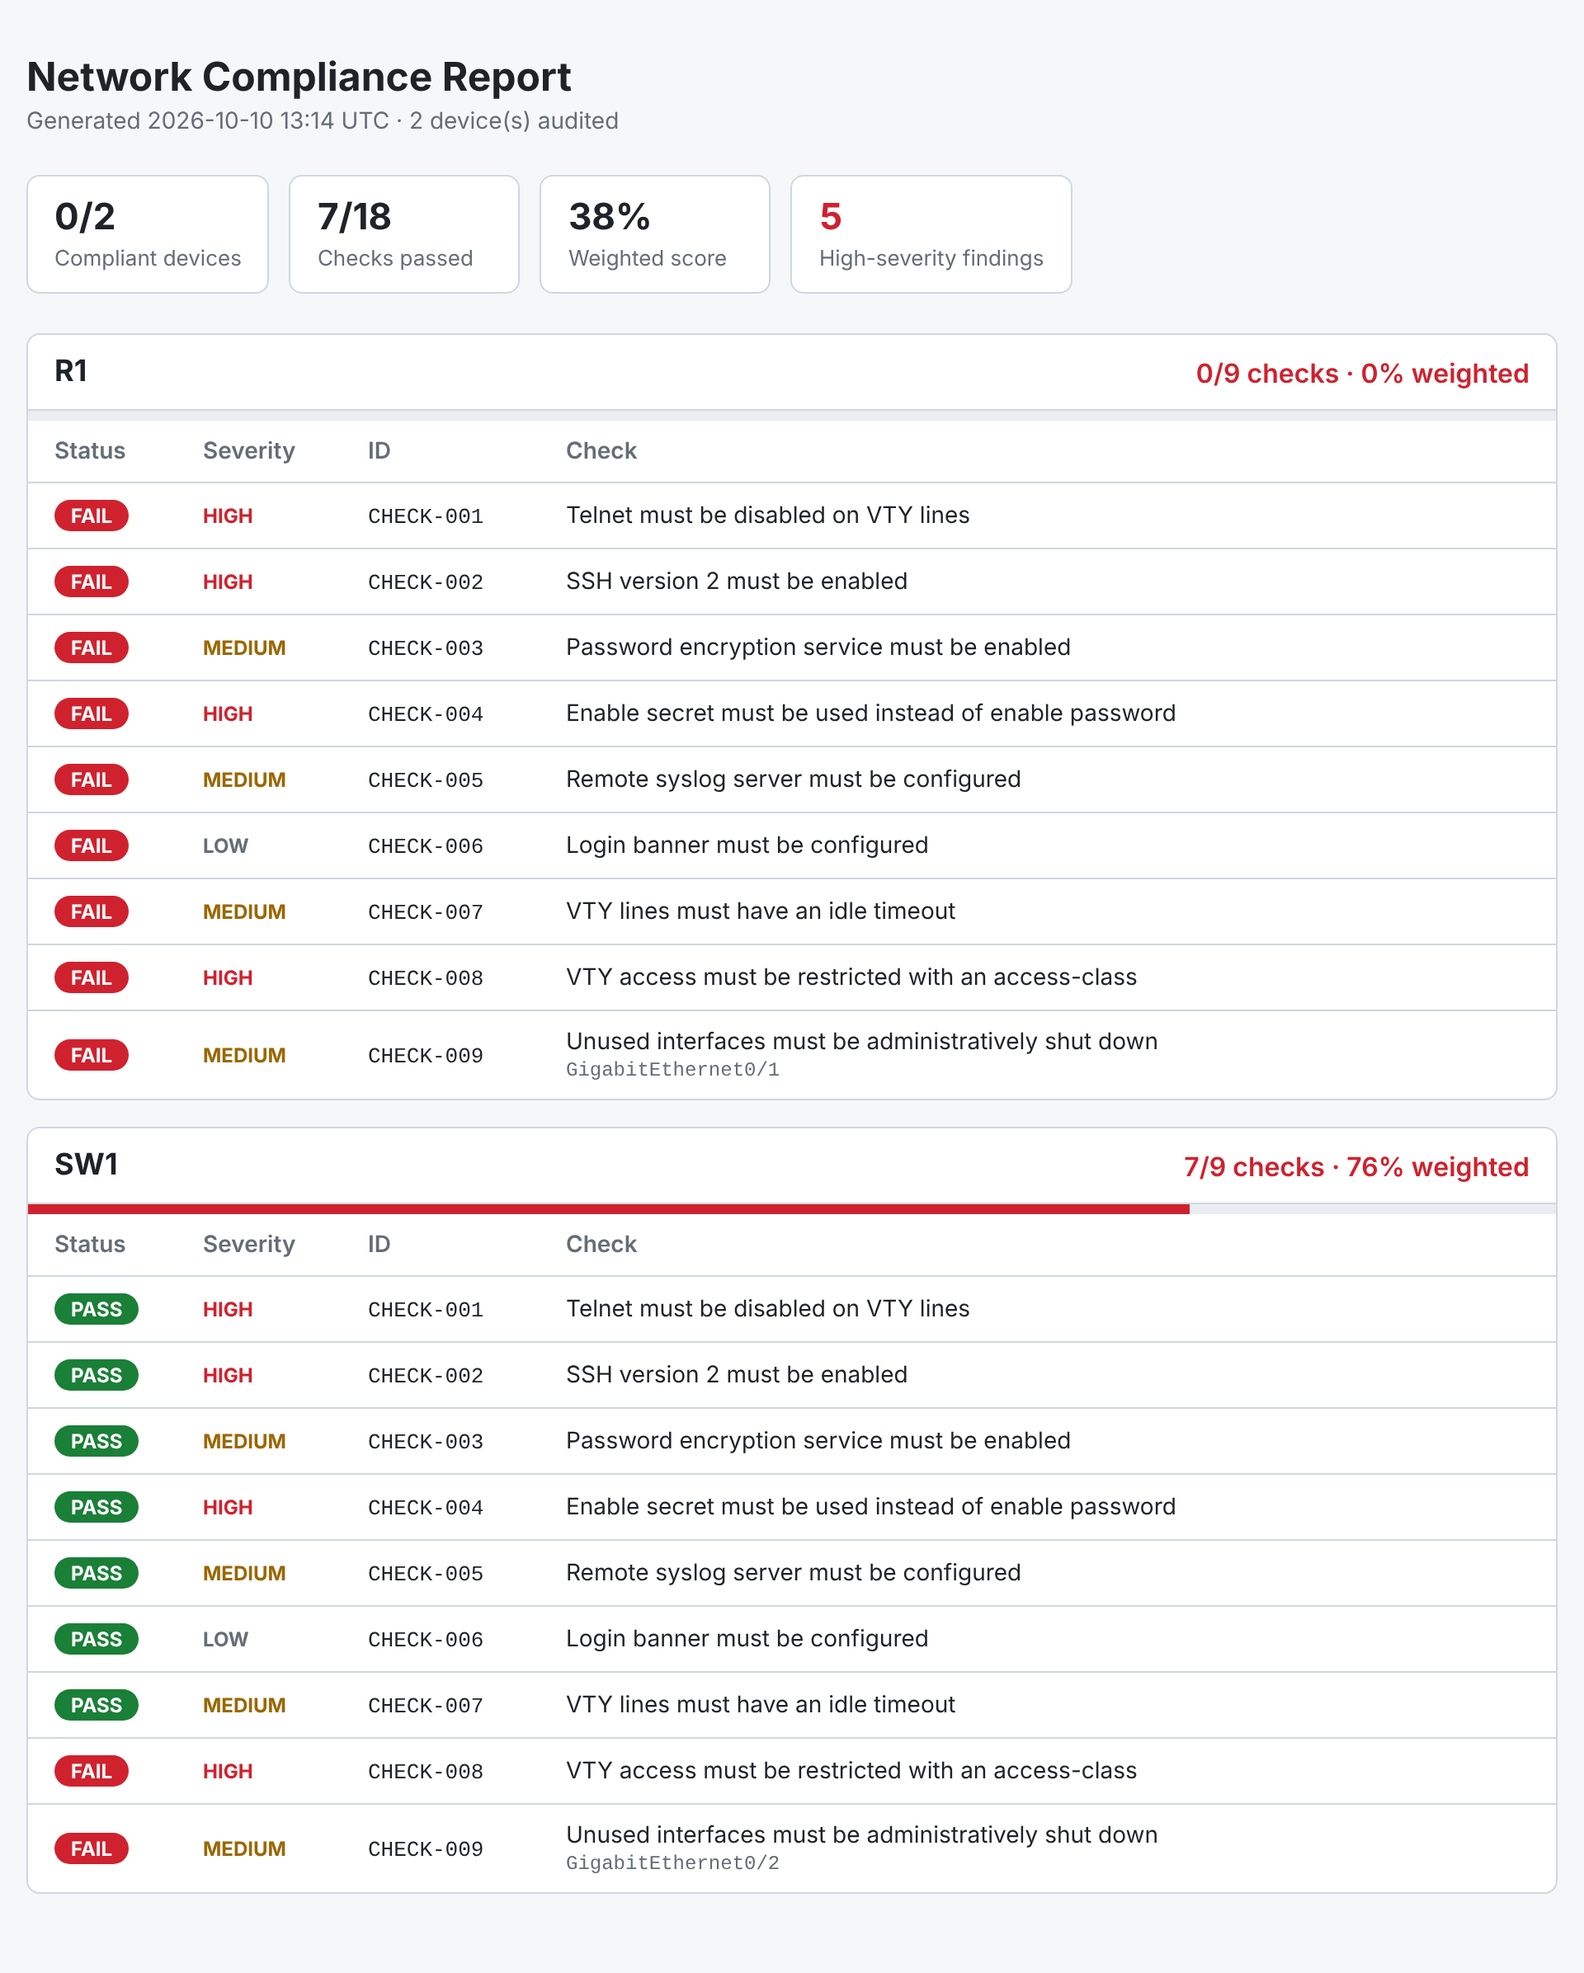
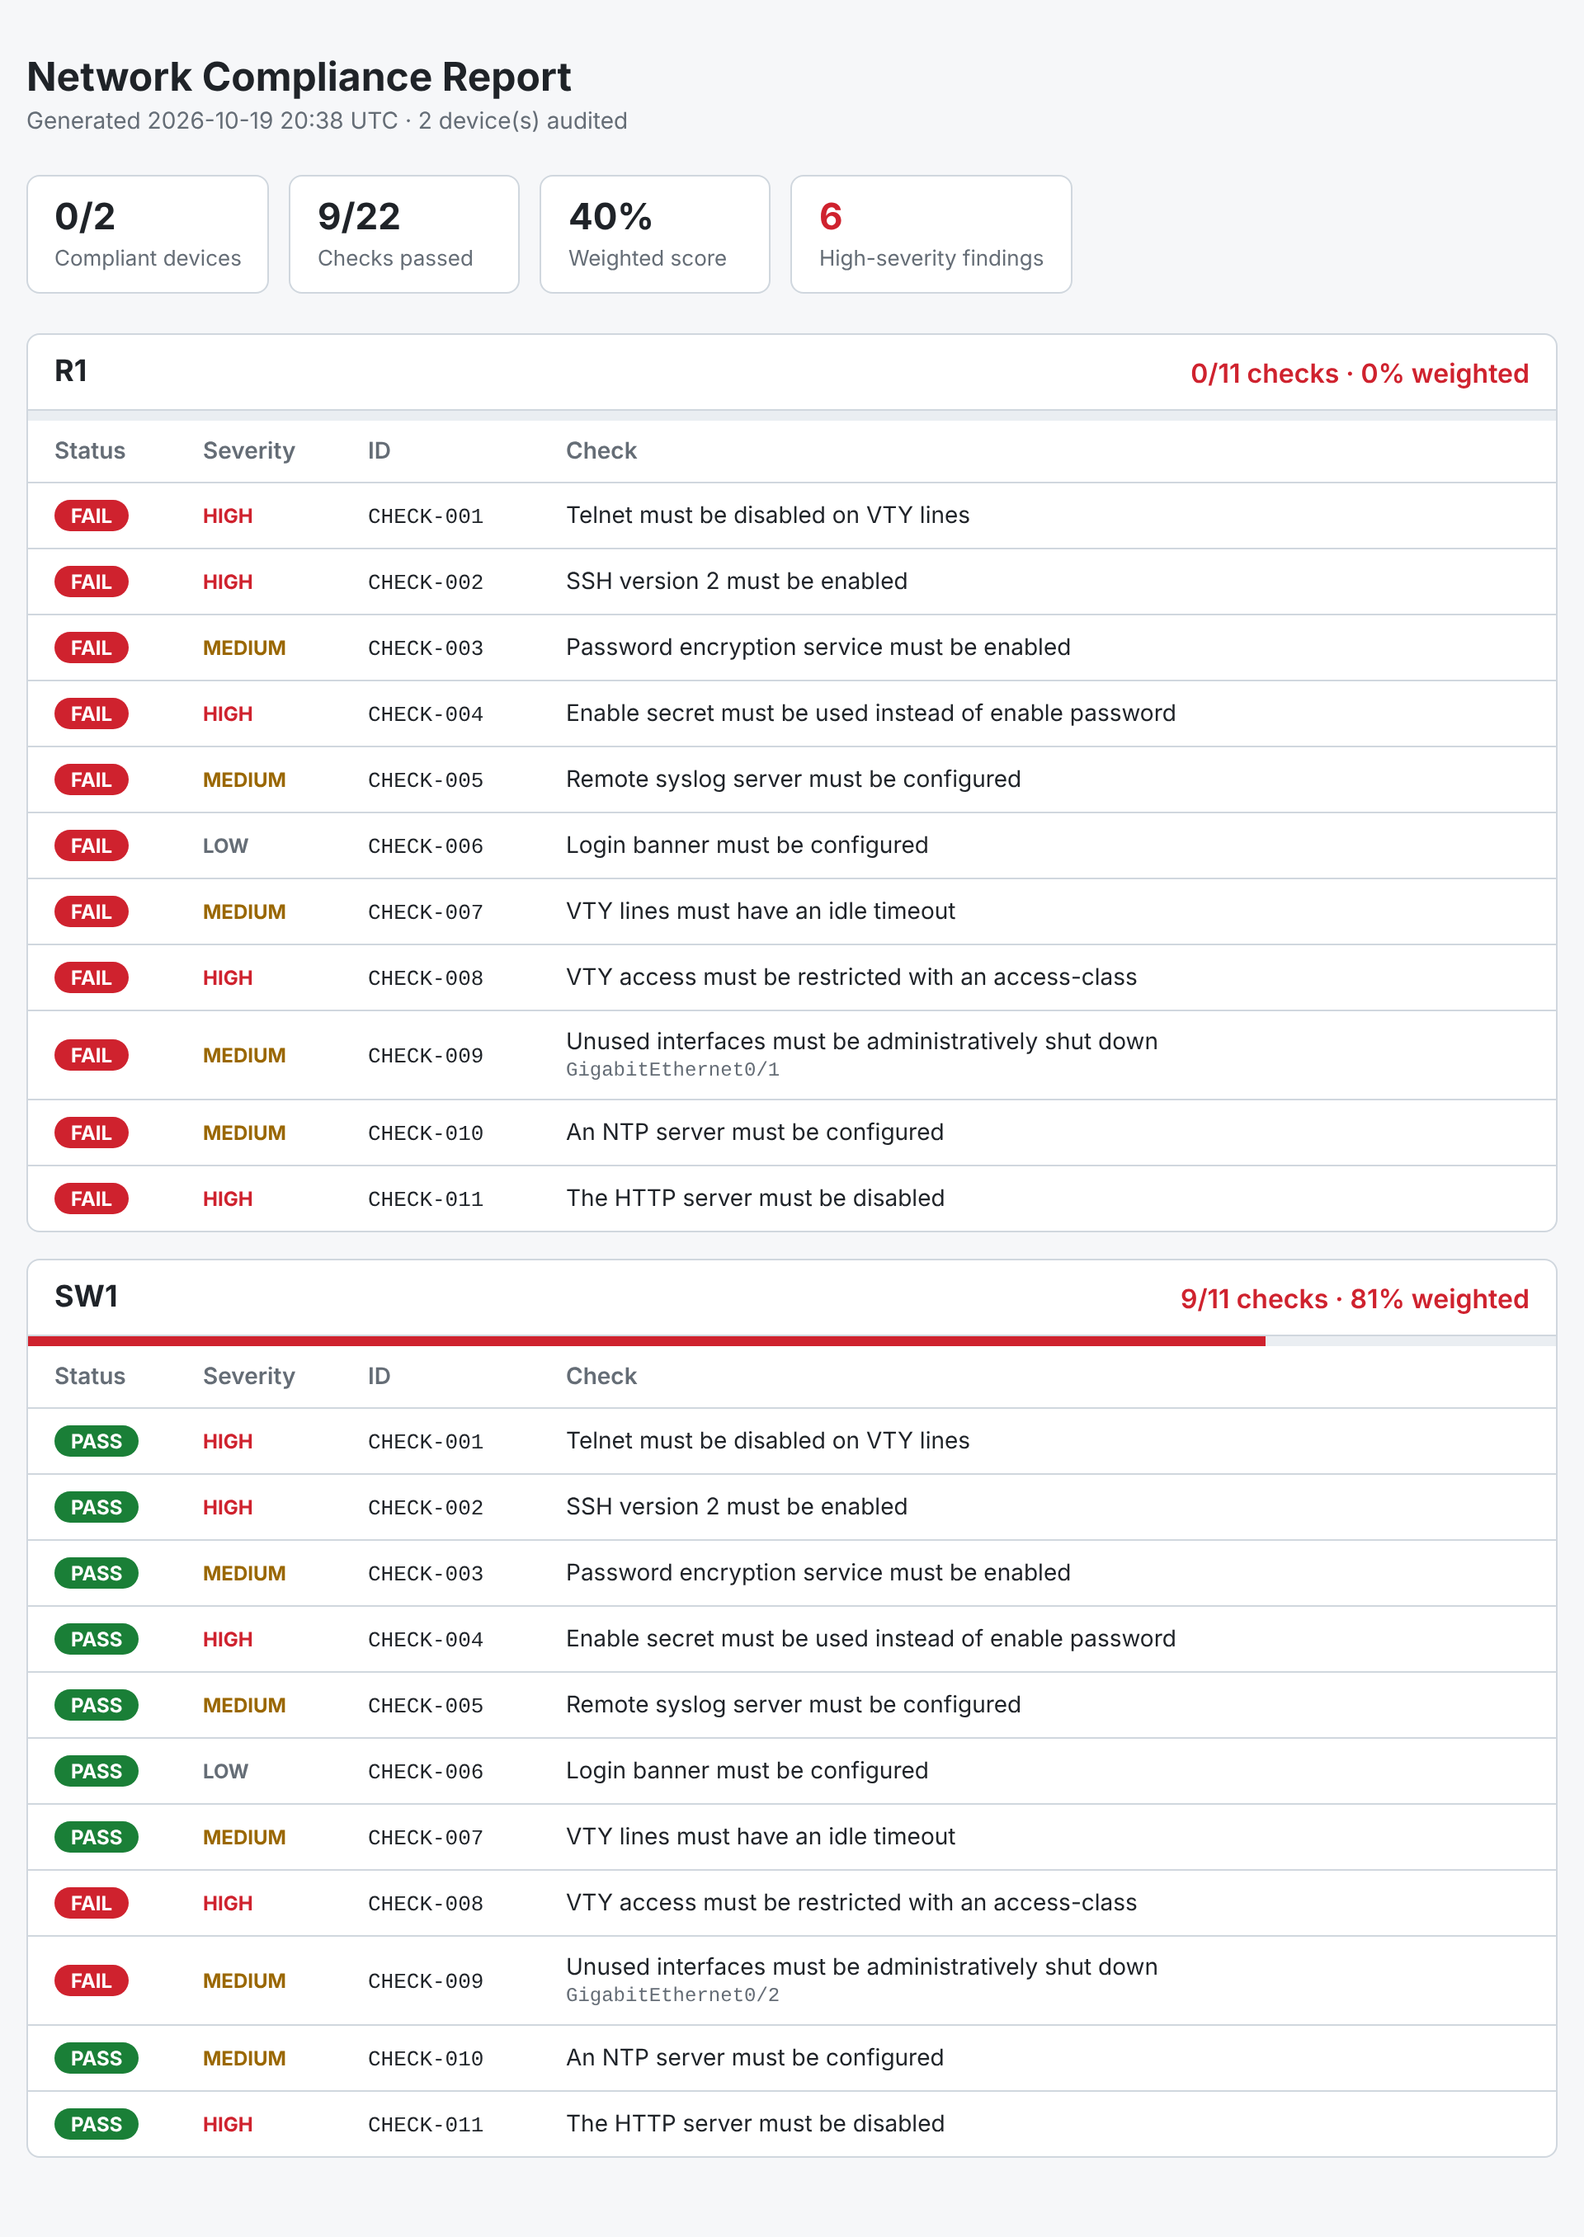
docs: refresh README for audit + remediation framework

diff --git a/README.md b/README.md
@@ -1,61 +1,77 @@
 # network-compliance-ansible
 
 ![CI](https://github.com/gokunguru/network-compliance-ansible/actions/workflows/ci.yml/badge.svg)
+![Execution Environment](https://github.com/gokunguru/network-compliance-ansible/actions/workflows/ee.yml/badge.svg)
 ![Ansible](https://img.shields.io/badge/ansible--core-2.16%2B-EE0000?logo=ansible)
 ![License](https://img.shields.io/badge/license-MIT-blue)
 
-Network compliance audit framework built with Ansible. It checks network device configurations against a set of security rules and produces a consolidated HTML report.
+Network compliance **audit and remediation** framework built with Ansible. It checks Cisco IOS configurations against security rules, scores each device, produces HTML/JSON reports and per-device remediation plans, and can apply the fixes to live devices in a closed loop.
 
 ![Compliance report](docs/report-example.png)
 
 ## Features
 
-- **Data-driven rules**: compliance checks are defined in YAML, not hard-coded in tasks. Adding a check means adding four lines of YAML.
-- **Full audit, then verdict**: every check runs on every device; the play only fails at the end if a device is non-compliant.
-- **Consolidated HTML report**: one report for all devices, with per-device scores and check details.
-- **Remediation plans**: for every non-compliant device, a ready-to-review IOS command file (`reports/remediation/<device>.cfg`) that fixes each finding. Site-specific values (syslog server, management network) come from the inventory; fixes that need a human decision, like secrets, are flagged as manual. Nothing is ever pushed automatically.
-- **Closed-loop remediation**: `playbooks/remediate.yml` audits live devices, applies the fixes with `cisco.ios.ios_config` (check/diff first, config backup, one device at a time), then re-audits to prove the findings are closed. It refuses to run offline or to change anything without explicit confirmation.
-- **JSON export**: the same results as machine-readable JSON, ready for a SIEM, a GRC tool or a CI gate. The CI publishes a summary table on every run.
-- **Weighted scoring**: each rule has a severity (high / medium / low); the compliance score weights findings accordingly, so a single critical gap costs more than several minor ones.
-- **Two rule engines**: simple rules match the raw config with a regex; structural rules (`type: parsed`) parse the config with `cisco.ios` resource modules (`state: parsed`) and reason on structured data, e.g. *every interface with no description, no switchport config and no IP must be shut down*.
-- **Offline mode**: audits configuration files without any live device, which makes the whole project testable in CI.
-- **Custom filter plugin**: structural checks are implemented as Python filters (`roles/compliance_audit/filter_plugins/`), covered by `pytest` unit tests.
-- **Quality gates**: `ansible-lint` (production profile), `ruff`, `pytest`, rule regression tests, a Molecule scenario and `gitleaks` secret scanning on every push.
-- **Execution Environment**: `execution-environment.yml` builds a container image with ansible-core, the collections and their network libraries, so the audit runs the same on a laptop, in CI or in AWX. A dedicated workflow builds it and runs the audit inside it.
-- **Molecule role test**: the role runs end to end against a golden config (must score 100%, no remediation plan) and a fully non-compliant config (must fail every check), then every output is verified.
+**Audit**
+- **Data-driven rules**: checks live in YAML (`rules/cisco_ios.yml`), not in tasks. A new rule is a few lines of YAML with its severity and its fix.
+- **Two rule engines**: regex rules on the raw config, and structural rules (`type: parsed`) that parse the config with `cisco.ios` resource modules (`state: parsed`) and reason on structured data.
+- **Weighted scoring**: high / medium / low severities, so one critical gap costs more than several minor ones.
+- **Offline or live**: audit configuration files (CI, no device needed) or read `show running-config` over SSH.
+
+**Remediation**
+- **Remediation plans**: a ready-to-review IOS command file per non-compliant device. Site-specific values come from the inventory; fixes that need a human decision (secrets) are flagged as manual.
+- **Closed-loop remediation**: `playbooks/remediate.yml` backs up the config, applies the fixes one device at a time (`--check --diff` first), then re-audits to prove the findings are closed. It refuses to run offline or without explicit confirmation.
+
+**Reporting**
+- **HTML report** for humans: one page for all devices, scores, findings and affected interfaces.
+- **JSON report** for machines (SIEM, GRC tooling, CI gates); the CI publishes a summary table on every run.
+
+**Engineering**
+- **Custom filter plugin** in Python for structural checks, covered by `pytest` unit tests.
+- **Rule regression tests**: every rule must have passing and failing cases, and a remediation.
+- **Molecule** role test against a golden config (must score 100%) and a fully non-compliant config.
+- **Execution Environment** (`ansible-builder`) so the audit runs the same on a laptop, in CI or in AWX.
+- **Quality gates** on every PR: `ansible-lint` (production profile), `ruff`, `pytest`, Molecule, `gitleaks`.
 
 ## How it works
 
 ```
-rules/cisco_ios.yml ──┐
-                      ├──► role: compliance_audit ──► console summary
-samples/configs/*.cfg ┘                            └► reports/compliance-report.html
+                      ┌──────────────────────────────┐
+ rules/cisco_ios.yml ─┤                              ├─► reports/compliance-report.html
+                      │   role: compliance_audit     ├─► reports/compliance-report.json
+ config source:       │   regex + parsed checks      ├─► reports/remediation/<device>.cfg
+  file  (offline) ────┤   weighted score             │
+  device (SSH) ───────┤                              ├─► playbooks/remediate.yml
+                      └──────────────────────────────┘     backup → apply → re-audit
 ```
 
-A rule looks like this:
+A rule carries its detection, severity and fix:
 
 ```yaml
 - id: CHECK-001
   title: Telnet must be disabled on VTY lines
+  severity: high
   pattern: 'transport input (all|.*telnet)'
-  expect: absent   # present = must be found, absent = must not be found
+  expect: absent          # present = must be found, absent = must not be found
+  remediation:
+    - parents: ["line vty 0 4"]
+      lines: ["transport input ssh"]
 ```
 
 ## Current checks (Cisco IOS)
 
-| ID | Check |
-|---|---|
-| CHECK-001 | Telnet must be disabled on VTY lines |
-| CHECK-002 | SSH version 2 must be enabled |
-| CHECK-003 | Password encryption service must be enabled |
-| CHECK-004 | Enable secret must be used instead of enable password |
-| CHECK-005 | Remote syslog server must be configured |
-| CHECK-006 | Login banner must be configured |
-| CHECK-007 | VTY lines must have an idle timeout |
-| CHECK-008 | VTY access must be restricted with an access-class |
-| CHECK-009 | Unused interfaces must be administratively shut down *(parsed)* |
-| CHECK-010 | An NTP server must be configured |
-| CHECK-011 | The HTTP server must be disabled |
+| ID | Check | Severity | Engine |
+|---|---|---|---|
+| CHECK-001 | Telnet must be disabled on VTY lines | high | regex |
+| CHECK-002 | SSH version 2 must be enabled | high | regex |
+| CHECK-003 | Password encryption service must be enabled | medium | regex |
+| CHECK-004 | Enable secret must be used instead of enable password | high | regex (manual fix) |
+| CHECK-005 | Remote syslog server must be configured | medium | regex |
+| CHECK-006 | Login banner must be configured | low | regex |
+| CHECK-007 | VTY lines must have an idle timeout | medium | regex |
+| CHECK-008 | VTY access must be restricted with an access-class | high | regex |
+| CHECK-009 | Unused interfaces must be administratively shut down | medium | parsed |
+| CHECK-010 | An NTP server must be configured | medium | regex |
+| CHECK-011 | The HTTP server must be disabled | high | regex |
 
 ## Quick start
 
@@ -66,6 +82,8 @@ ansible-galaxy collection install -r requirements.yml
 ansible-playbook playbooks/audit.yml
 open reports/compliance-report.html   # macOS (use xdg-open on Linux)
 ```
+
+The sample configs are intentionally imperfect: `R1` fails every check and `SW1` fails two of them (VTY access-class, one unused interface), so the audit is expected to fail.
 
 Example remediation plan (`reports/remediation/SW1.cfg`):
 
@@ -81,14 +99,26 @@ interface GigabitEthernet0/2
  shutdown
 ```
 
-Audit live devices over SSH (see [docs/lab.md](docs/lab.md) for the GNS3 lab):
+Query the JSON report, e.g. list every failed high-severity check:
+
+```bash
+jq -r '.devices[] | .name as $d | .results[] | select(.status == "FAIL" and .severity == "high") | "\($d) \(.id) \(.title)"' reports/compliance-report.json
+```
+
+## Live devices
+
+See [docs/lab.md](docs/lab.md) for the GNS3 lab (topology, device bootstrap, inventory, vault).
 
 ```bash
 cp -r inventories/lab.example inventories/lab
 ansible-playbook -i inventories/lab playbooks/audit.yml --ask-vault-pass
+
+# Remediation: dry run first, then apply
+ansible-playbook -i inventories/lab playbooks/remediate.yml --check --diff --ask-vault-pass
+ansible-playbook -i inventories/lab playbooks/remediate.yml --diff --ask-vault-pass -e remediation_confirm=true
 ```
 
-Run in a container (Execution Environment):
+## Run in a container (Execution Environment)
 
 ```bash
 pip install ansible-builder ansible-navigator
@@ -96,13 +126,14 @@ ansible-builder build -t network-compliance-ee:latest
 ansible-navigator run playbooks/audit.yml --eei network-compliance-ee:latest --pp never -m stdout
 ```
 
-Query the JSON report, e.g. list every failed high-severity check:
+## Testing
 
 ```bash
-jq -r '.devices[] | .name as $d | .results[] | select(.status == "FAIL" and .severity == "high") | "\($d) \(.id) \(.title)"' reports/compliance-report.json
+ansible-lint                                    # production profile
+ansible-playbook tests/test_rules.yml           # rule regression cases
+pytest -q tests/unit                            # filter plugin unit tests
+cd roles/compliance_audit && molecule test      # end-to-end role test
 ```
-
-The sample configs are intentionally imperfect: `R1` is non-compliant and `SW1` is compliant, so the audit is expected to fail on `R1`.
 
 ## Role variables
 
@@ -112,15 +143,19 @@ The sample configs are intentionally imperfect: `R1` is non-compliant and `SW1` 
 | `compliance_audit_checks` | `[]` | List of checks to evaluate |
 | `compliance_audit_config_file` | `""` | Path to the device configuration to audit |
 | `compliance_audit_fail_on_noncompliance` | `true` | Fail the host if at least one check fails |
-| `compliance_audit_severity_weights` | `{high: 3, medium: 2, low: 1}` | Weight of each severity in the compliance score |
+| `compliance_audit_severity_weights` | `{high: 3, medium: 2, low: 1}` | Weight of each severity in the score |
 | `compliance_audit_remediation_enabled` | `true` | Generate per-device remediation plans |
+| `compliance_audit_remediation_dir` | `reports/remediation` | Remediation plans output directory |
 | `compliance_audit_remediation_syslog_host` | `<syslog-server-ip>` | Syslog server used in remediation commands |
-| `compliance_audit_remediation_mgmt_network` | `<mgmt-network> <wildcard>` | Network allowed on VTY lines |
+| `compliance_audit_remediation_ntp_server` | `<ntp-server-ip>` | NTP server used in remediation commands |
+| `compliance_audit_remediation_banner` | `Authorized access only. ...` | Login banner text |
+| `compliance_audit_remediation_vty_timeout` | `10` | VTY idle timeout (minutes) |
 | `compliance_audit_remediation_mgmt_acl` | `MGMT-ACCESS` | Name of the management ACL |
+| `compliance_audit_remediation_mgmt_network` | `<mgmt-network> <wildcard>` | Network allowed on VTY lines |
+| `compliance_audit_report_enabled` | `true` | Generate the HTML report |
+| `compliance_audit_report_path` | `reports/compliance-report.html` | HTML report output path |
 | `compliance_audit_json_report_enabled` | `true` | Generate the JSON report |
 | `compliance_audit_json_report_path` | `reports/compliance-report.json` | JSON report output path |
-| `compliance_audit_report_enabled` | `true` | Generate the HTML report |
-| `compliance_audit_report_path` | `reports/compliance-report.html` | Report output path |
 
 ## Project structure
 
@@ -138,17 +173,19 @@ The sample configs are intentionally imperfect: `R1` is non-compliant and `SW1` 
 ├── rules/cisco_ios.yml             # Compliance rules
 ├── samples/configs/                # Sample device configurations
 ├── tests/                          # Rule regression cases + Python unit tests
+├── docs/lab.md                     # GNS3 lab guide
 ├── execution-environment.yml       # Container image definition (ansible-builder)
 └── .github/workflows/              # CI (lint, tests, audit, secrets) + EE build
 ```
 
 ## Roadmap
 
-- [x] **Level 1**: inventory, first checks (SSHv2, telnet)
-- [x] **Level 2**: role, YAML-defined rules, HTML report
-- [ ] **Level 3**: structured parsing with resource modules *(in progress)*, live devices (GNS3 lab)
-- [ ] **Level 4**: remediation plans, closed-loop remediation playbook *(done)*; validation on the GNS3 lab *(next)*
-- [ ] **Level 5**: custom filter plugin with unit tests, Molecule role tests, Execution Environment *(done)*; AWX *(next)*
+- [x] **Level 1**: inventory, first checks
+- [x] **Level 2**: role, YAML rules, HTML report, weighted scoring, JSON export
+- [x] **Level 3**: structural checks with `cisco.ios` resource modules, live config source over SSH
+- [x] **Level 4**: remediation plans and closed-loop remediation playbook
+- [x] **Level 5**: custom filter plugin, Molecule, Execution Environment
+- [ ] **Next**: validation on the GNS3 lab, AWX job templates, more vendors (Arista EOS)
 
 ## License
 
